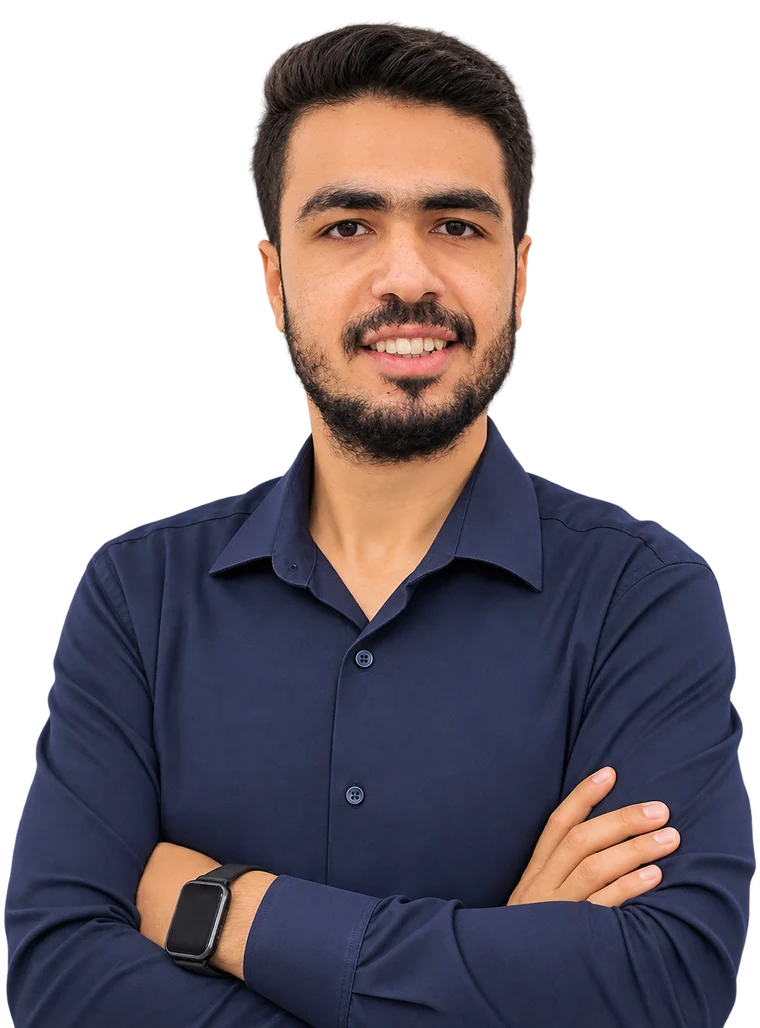
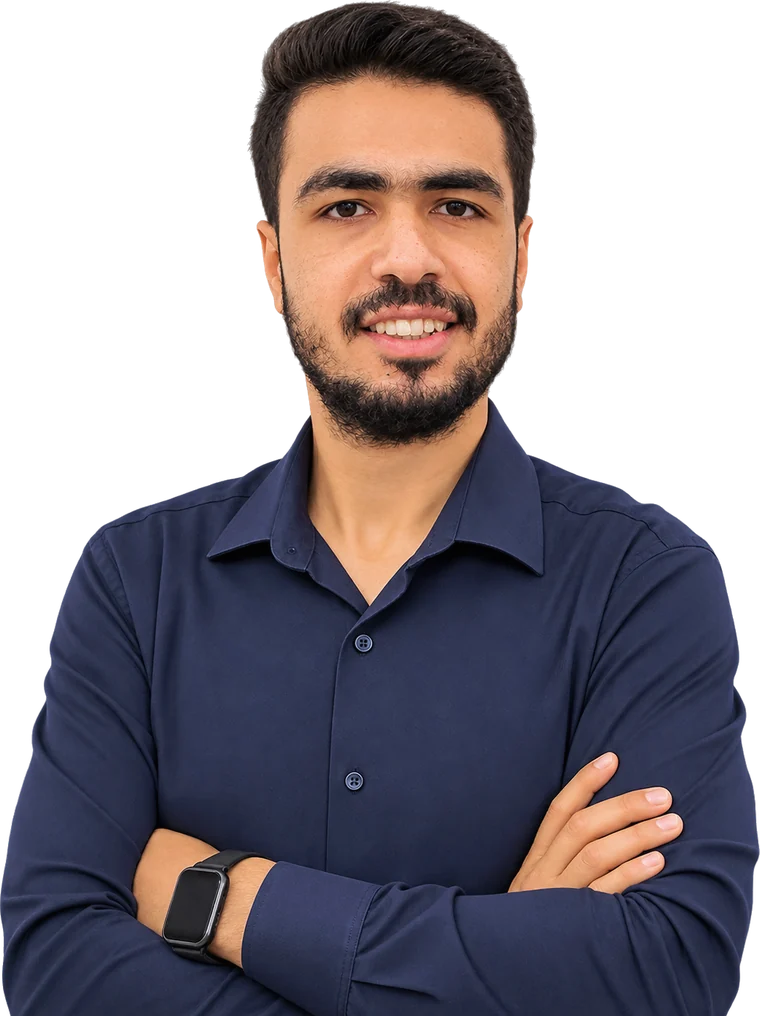
Fix hero photo sliding over the next section and its glowing box
- Remove the hero parallax: it pushed the photo and cards down over the
  skills strip while scrolling, where they got cut off
- Clear near-transparent background pixels from the portrait so the rim
  glow no longer lights up a rectangle around it

Claude-Session: https://claude.ai/code/session_01VbMHBZZLq1m4b4JrwWgEwx

diff --git a/index.html b/index.html
@@ -150,7 +150,6 @@ html.lenis,html.lenis body{height:auto}
 @media (max-width:860px){.anim .rv.from-l,.anim .rv.from-r{transform:translate3d(0,34px,0)}}
 .anim .rv.in{opacity:1;transform:none}
 html,body{overflow-x:clip}
-.orbit{transform:translate3d(0,var(--py,0px),0)}
 /* portrait over the glowing sphere */
 .orbit{aspect-ratio:4/5;max-width:470px}
 .orbit svg.rings{top:2%;bottom:auto;height:auto;aspect-ratio:1}
@@ -329,7 +328,7 @@ dialog.lb .x{position:absolute;top:10px;right:10px;background:linear-gradient(13
 
     <div class="orbit">
       <div class="sun"></div>
-      <img class="portrait" src="assets/abdelrhman.webp" width="760" height="1028" alt="Abdelrhman Rafaat" fetchpriority="high" decoding="async">
+      <img class="portrait" src="assets/abdelrhman.webp" width="760" height="1016" alt="Abdelrhman Rafaat" fetchpriority="high" decoding="async">
       <svg class="rings" viewBox="0 0 400 400" aria-hidden="true">
         <circle class="draw" cx="200" cy="200" r="186" stroke="var(--orange)" stroke-width="1.6" style="--len:1169"/>
         <circle class="draw" cx="200" cy="200" r="140" stroke="var(--blush)" stroke-width="22" style="--len:880;animation-delay:.5s"/>
@@ -578,10 +577,6 @@ dialog.lb .x{position:absolute;top:10px;right:10px;background:linear-gradient(13
     groups.forEach(function(g){document.querySelectorAll(g[0]).forEach(function(el,i){
       el.classList.add('rv');if(g[1])el.classList.add(g[1]);if(g[2])el.style.setProperty('--d',(i*g[2]).toFixed(2)+'s');rio.observe(el);
     })});
-    // hero parallax
-    var orbit=document.querySelector('.orbit'),ticking=false;
-    addEventListener('scroll',function(){if(ticking)return;ticking=true;requestAnimationFrame(function(){
-      var y=scrollY;if(y<1000)orbit.style.setProperty('--py',(y*.18).toFixed(1)+'px');ticking=false});},{passive:true});
   }
 
   var nav=document.getElementById('nav');
